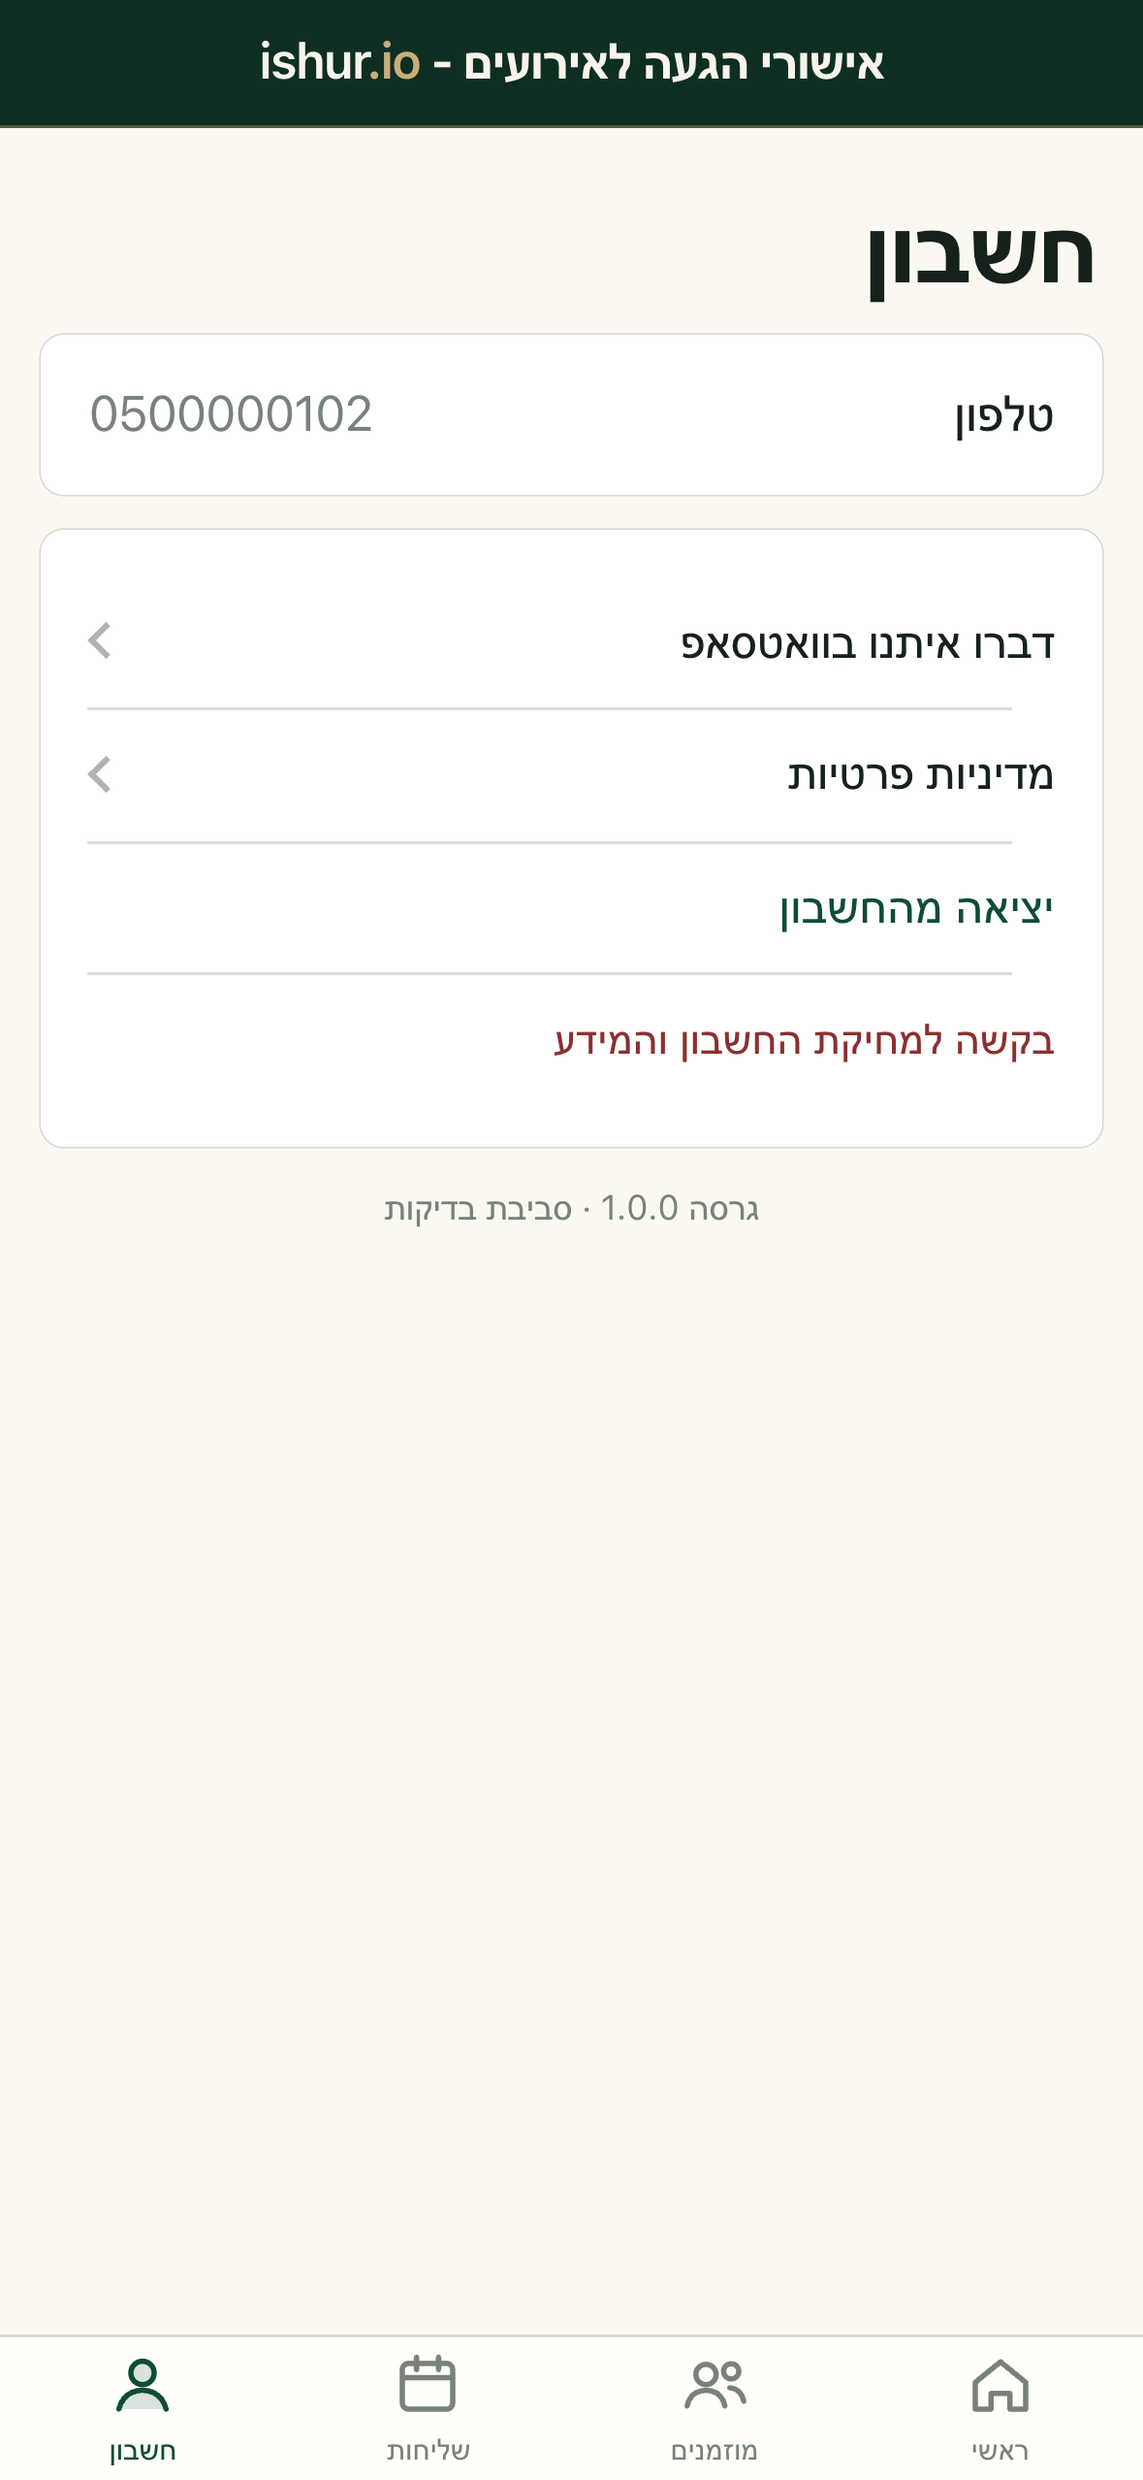
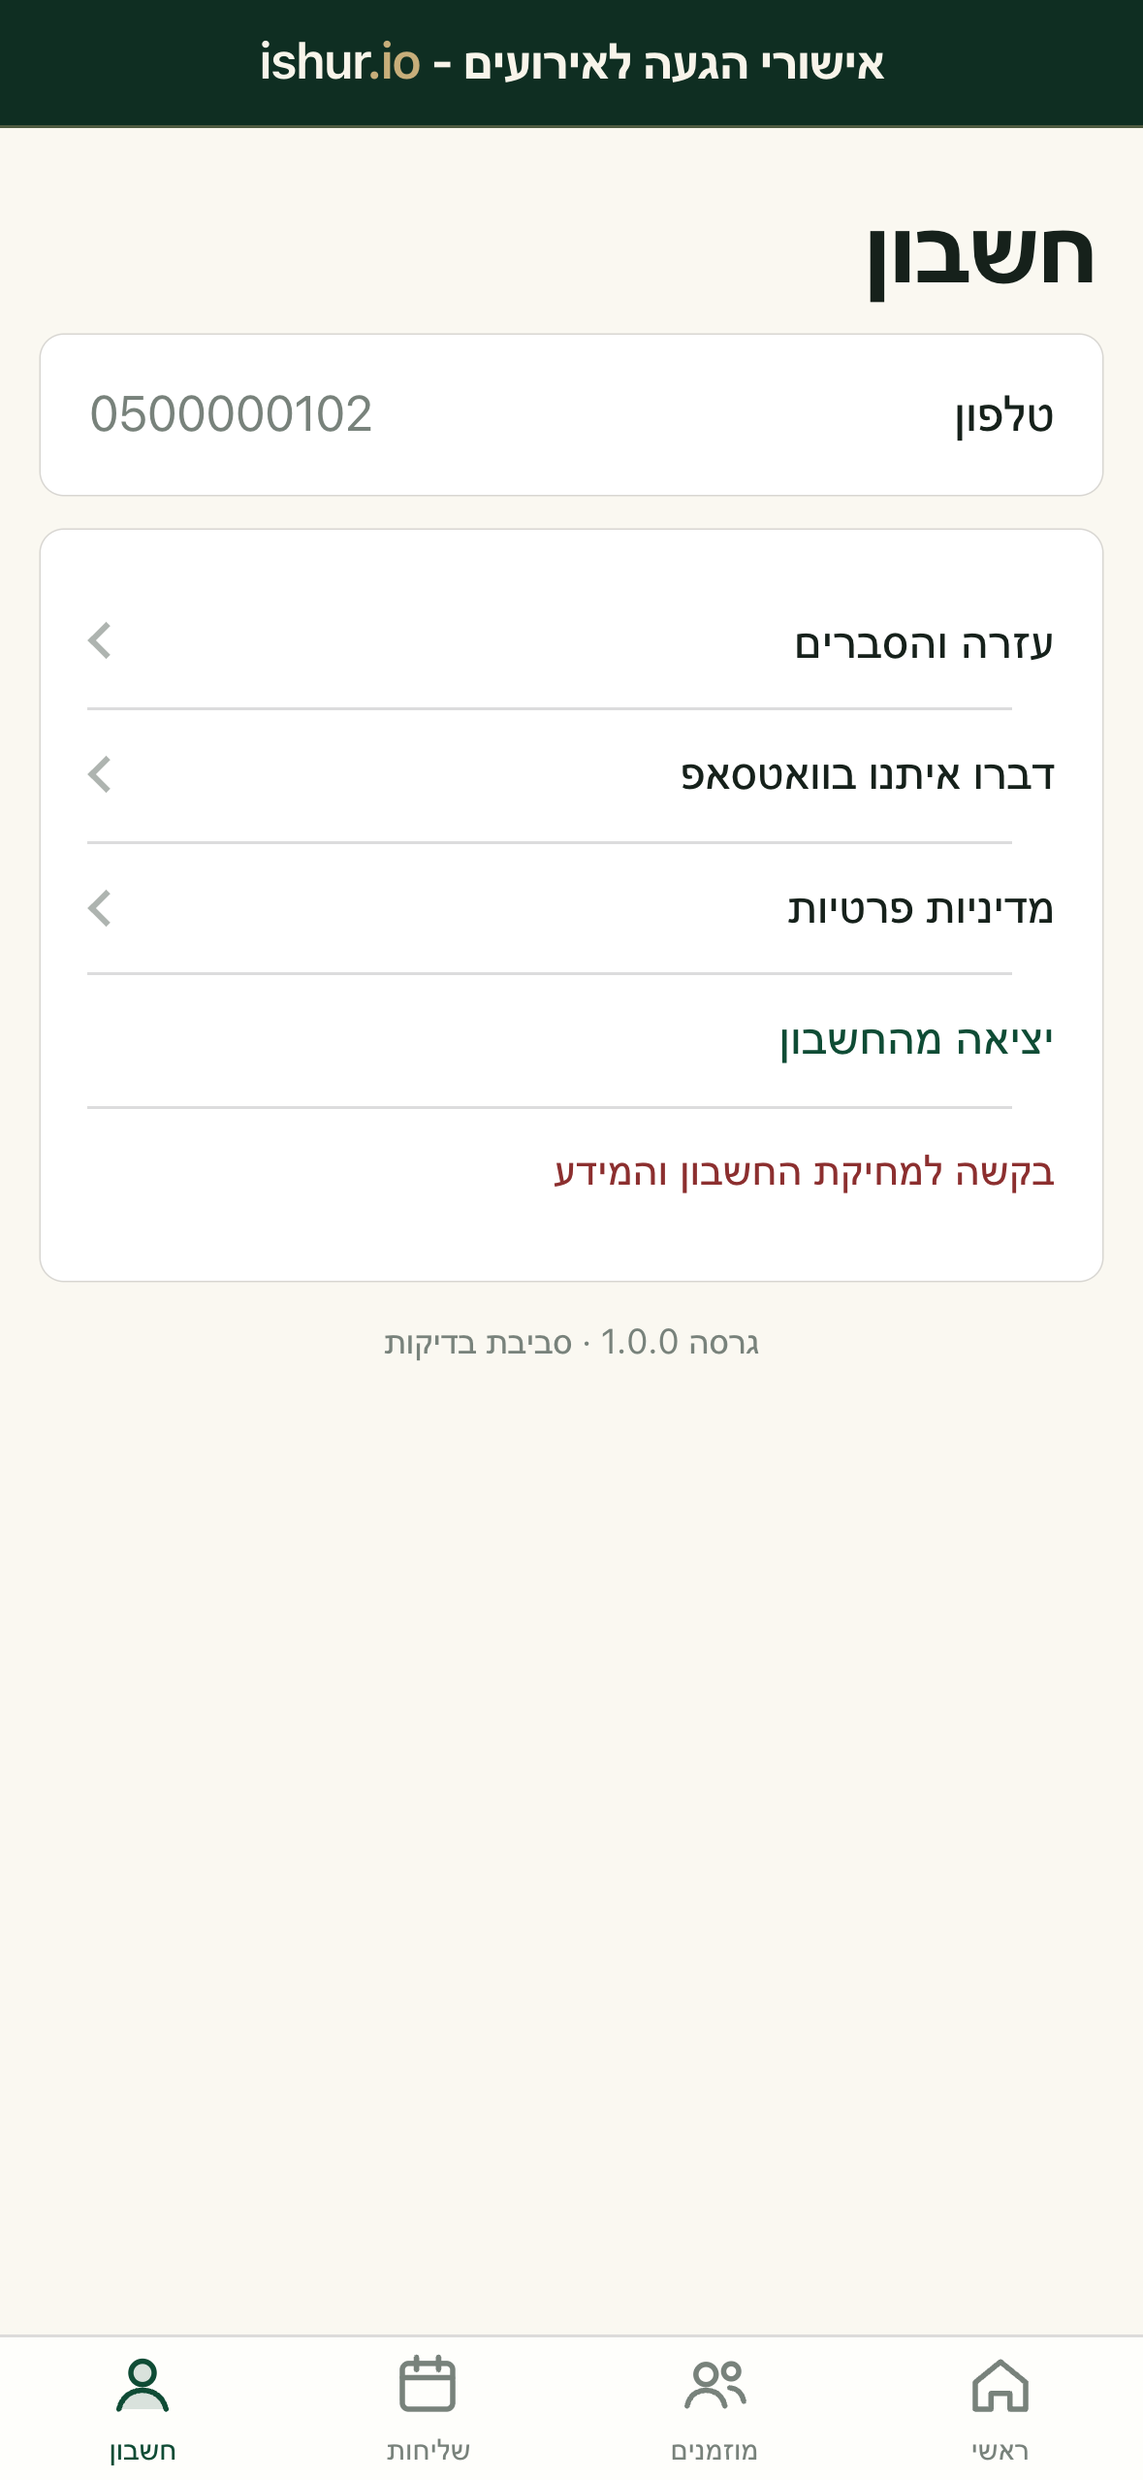
client-app: help centre (R19) with five animated explanations, check P15, 37/37

diff --git a/app/www/help.js b/app/www/help.js
@@ -1,0 +1,73 @@
+/* ishur client app · help centre (spec R19). For clients who are not technical: one idea per screen, large text,
+   a small moving picture that shows where to touch, "הבא" to go on, "להראות שוב" to replay, and WhatsApp at the end.
+   To add or change an explanation, edit TOPICS below: each step is { text, scene }. Scenes are drawn by SCENES. */
+(function () {
+  'use strict';
+  var $ = function (id) { return document.getElementById(id); };
+  var App = window.IshurApp || {}, ENV = window.ISHUR_ENV || {};
+
+  var TOPICS = [
+    { title: 'מה המספרים אומרים', steps: [
+      { text: 'המספר הגדול למעלה הוא כמה אנשים מגיעים לאירוע.', scene: ['count', '86', 'מגיעים'] },
+      { text: 'מתחתיו רואים כמה אישרו, כמה לא בטוחים, כמה עוד לא ענו וכמה לא מגיעים.', scene: ['tiles', 'אישרו', 'לא בטוחים', 'לא ענו', 'לא מגיעים'] },
+      { text: 'נגיעה במספר פותחת את רשימת האנשים שמאחוריו.', scene: ['tap', 'לא ענו', '12'] } ] },
+    { title: 'איך מוסיפים מוזמן', steps: [
+      { text: 'בלשונית "ראשי" גוללים למטה עד "הוספת מוזמן".', scene: ['scroll', 'הוספת מוזמן'] },
+      { text: 'כותבים את השם ואת מספר הטלפון של המוזמן.', scene: ['type', 'שם', 'טלפון'] },
+      { text: 'נוגעים ב"הוספה". המוזמן נכנס לרשימה ויקבל הזמנה בשליחה הבאה.', scene: ['tap', 'הוספה', ''] } ] },
+    { title: 'איך משנים תאריך שליחה', steps: [
+      { text: 'בלשונית "ראשי" גוללים עד "לוח השליחות".', scene: ['scroll', 'לוח השליחות'] },
+      { text: 'ליד השליחה שרוצים להזיז נוגעים ב"שינוי תאריך".', scene: ['tap', 'שינוי תאריך', ''] },
+      { text: 'בוחרים יום חדש. אפשר לשנות עד השעה 06:00 בבוקר של יום השליחה.', scene: ['calendar'] } ] },
+    { title: 'מה זה "נכשלו" ומה עושים', steps: [
+      { text: '"נכשלו" הם מוזמנים שההזמנה לא הגיעה לטלפון שלהם.', scene: ['row', 'דנה כהן', 'לא נמסר'] },
+      { text: 'ליד כל שם כתובה הסיבה: אין וואטסאפ במספר, או שההודעה לא נמסרה.', scene: ['row', 'יוסי לוי', 'אין וואטסאפ'] },
+      { text: 'בודקים שהמספר נכון. אם הוא נכון, שולחים להם את קישור אישור ההגעה מהטלפון שלכם.', scene: ['share'] } ] },
+    { title: 'איך משתפים קישור אישור הגעה', steps: [
+      { text: 'יש קישור אחד שכל מוזמן יכול לאשר דרכו הגעה, גם מי שלא קיבל הזמנה.', scene: ['share'] },
+      { text: 'נוגעים ב"שיתוף קישור אישור ההגעה" ובוחרים וואטסאפ או כל אפליקציה אחרת.', scene: ['tap', 'שיתוף קישור', ''] } ] }
+  ];
+
+  var el = function (cls, text) { var d = document.createElement('div'); d.className = cls; if (text != null) d.textContent = text; return d; };
+  var SCENES = {
+    count: function (s, a) { var b = el('sc-big', a[1]); s.appendChild(b); s.appendChild(el('sc-cap', a[2])); },
+    tiles: function (s, a) { var g = el('sc-grid'); a.slice(1).forEach(function (t, i) { var c = el('sc-tile lit', ''); c.style.animationDelay = (i * 0.7) + 's'; c.appendChild(el('sc-n', String([48, 9, 12, 7][i]))); c.appendChild(el('sc-l', t)); g.appendChild(c); }); s.appendChild(g); },
+    tap: function (s, a) { var c = el('sc-tile wide target'); if (a[2]) c.appendChild(el('sc-n', a[2])); c.appendChild(el('sc-l', a[1])); s.appendChild(c); s.appendChild(el('sc-finger')); },
+    scroll: function (s, a) { var w = el('sc-page'); w.appendChild(el('sc-line')); w.appendChild(el('sc-line short')); w.appendChild(el('sc-line')); w.appendChild(el('sc-goal', a[1])); s.appendChild(w); s.appendChild(el('sc-finger swipe')); },
+    type: function (s, a) { a.slice(1).forEach(function (t, i) { var f = el('sc-field'); f.appendChild(el('sc-ph', t)); var ink = el('sc-ink'); ink.style.animationDelay = (i * 1.1) + 's'; f.appendChild(ink); s.appendChild(f); }); },
+    calendar: function (s) { var g = el('sc-cal'); for (var i = 0; i < 14; i++) g.appendChild(el('sc-day' + (i === 9 ? ' pick' : ''), String(i + 14))); s.appendChild(g); },
+    row: function (s, a) { var r = el('sc-row'); r.appendChild(el('sc-name', a[1])); r.appendChild(el('sc-pill', a[2])); s.appendChild(r); },
+    share: function (s) { var c = el('sc-link', 'קישור אישור הגעה'); s.appendChild(c); var w = el('sc-apps'); ['וואטסאפ', 'הודעות', 'העתקה'].forEach(function (t, i) { var b = el('sc-app', t); b.style.animationDelay = (0.4 + i * 0.25) + 's'; w.appendChild(b); }); s.appendChild(w); }
+  };
+
+  var topic = null, step = 0;
+  function draw() {
+    var st = topic.steps[step], last = step === topic.steps.length - 1;
+    $('helpText').textContent = st.text;
+    var sc = $('helpScene'); sc.textContent = ''; sc.className = 'scene sc-' + st.scene[0];
+    (SCENES[st.scene[0]] || function () {})(sc, st.scene);
+    $('helpDots').innerHTML = topic.steps.map(function (_, i) { return '<i' + (i === step ? ' class="on"' : '') + '></i>'; }).join('');
+    $('helpNext').hidden = last; $('helpReplay').hidden = !last; $('helpWa').hidden = !last;
+  }
+  function openTopic(i) {
+    topic = TOPICS[i]; step = 0;
+    $('helpTopics').hidden = true; $('helpPlayer').hidden = false; $('helpBack').hidden = false;
+    $('helpPlayer').setAttribute('data-steps', topic.steps.length); $('helpTitle').textContent = topic.title; draw();
+  }
+  function list() { topic = null; $('helpTopics').hidden = false; $('helpPlayer').hidden = true; $('helpBack').hidden = true; $('helpTitle').textContent = 'עזרה והסברים'; }
+  function open(i) { $('help').hidden = false; if (typeof i === 'number') openTopic(i); else list(); }
+
+  $('helpTopics').innerHTML = TOPICS.map(function (t, i) { return '<button type="button" class="row nav" data-i="' + i + '"><span class="nm">' + t.title + '</span></button>'; }).join('');
+  $('helpTopics').addEventListener('click', function (e) { var b = e.target.closest('button'); if (b) openTopic(Number(b.getAttribute('data-i'))); });
+  $('helpNext').addEventListener('click', function () { if (step < topic.steps.length - 1) { step++; draw(); } });
+  $('helpReplay').addEventListener('click', function () { step = 0; draw(); });
+  $('helpBack').addEventListener('click', list);
+  $('helpClose').addEventListener('click', function () { $('help').hidden = true; });
+  $('helpOpen').addEventListener('click', function () { open(); });
+  $('helpWa').addEventListener('click', function (e) {
+    e.preventDefault();
+    var url = 'https://wa.me/' + ENV.whatsapp + '?text=' + encodeURIComponent('היי, צריך/ה עזרה באפליקציה: ' + (topic ? topic.title : ''));
+    var b = App.plugin && App.plugin('Browser'); if (b) b.open({ url: url }); else window.open(url, '_blank', 'noopener');
+  });
+  window.IshurHelp = { open: open, topics: TOPICS };
+})();

diff --git a/app/www/app.css b/app/www/app.css
@@ -200,3 +200,60 @@ label{font-size:13px;font-weight:400;color:var(--ink3)}
 @media (prefers-reduced-transparency:reduce){.tabs{background:var(--card);-webkit-backdrop-filter:none;backdrop-filter:none}}
 @media (prefers-contrast:more){.card,.list,.kpi{box-shadow:0 0 0 1px var(--ink3)}.tabs{background:var(--card);border-top:1px solid var(--ink3)}}
 @media (prefers-reduced-motion:reduce){.sheetbox,.sheet{animation:none}.switch input::after{transition:none}}
+
+/* ── help centre (R19): full-screen, large text, one idea per screen ───────────────────────────────────────── */
+.links button.nav{color:var(--ink)}
+.links button.nav::after,.row.nav::after{content:"";position:absolute;inset-inline-end:2px;top:50%;width:7px;height:7px;border-left:2px solid var(--ink3);border-bottom:2px solid var(--ink3);transform:translateY(-50%) rotate(45deg);opacity:.6}
+.help{position:fixed;inset:0;z-index:30;background:var(--bg);display:flex;flex-direction:column;overflow-y:auto}
+.helpbar{display:flex;align-items:center;justify-content:space-between;gap:.5rem;min-height:calc(44px + env(safe-area-inset-top));padding:env(safe-area-inset-top) .9rem 0;background:var(--pine);color:#F8F4EA}
+.helpbar h2{font-size:17px;font-weight:600;margin:0;flex:1;text-align:center}
+.helpbar button{color:#F8F4EA;font-size:17px;min-height:44px;min-width:56px}
+.helptopics{margin:1rem .9rem}
+.helptopics .row{width:100%;text-align:start;min-height:56px}
+.helptopics .row .nm{font-size:19px}
+.row.nav::after{inset-inline-end:.9rem}
+.helpplayer{flex:1;display:flex;flex-direction:column;max-width:560px;width:100%;margin:0 auto;padding:1rem .9rem calc(1.2rem + env(safe-area-inset-bottom))}
+.helpdots{display:flex;gap:6px;justify-content:center;margin-bottom:.9rem}
+.helpdots i{width:22px;height:4px;border-radius:2px;background:var(--fill)}
+.helpdots i.on{background:var(--gold)}
+.scene{position:relative;height:210px;border-radius:var(--r);background:var(--card);box-shadow:0 0 0 .5px var(--hair);display:flex;flex-direction:column;align-items:center;justify-content:center;gap:.6rem;overflow:hidden;padding:1rem}
+.helptext{font-size:22px;line-height:1.4;font-weight:500;margin:1.1rem .2rem 1.2rem;min-height:4.2em}
+.helpplayer .btn{margin-top:.6rem;min-height:56px;font-size:19px;text-align:center;line-height:56px;text-decoration:none}
+.sc-big{font-size:72px;font-weight:700;color:var(--yes);line-height:1}
+.sc-cap{font-size:18px;color:var(--ink2)}
+.sc-grid{display:grid;grid-template-columns:1fr 1fr;gap:.5rem;width:100%}
+.sc-tile{background:var(--bg);border-radius:var(--r);padding:.55rem;text-align:center;box-shadow:0 0 0 .5px var(--hair)}
+.sc-tile.wide{min-width:60%;padding:.9rem}
+.sc-n{font-size:24px;font-weight:600}.sc-l{font-size:15px;color:var(--ink2)}
+.sc-finger{position:absolute;width:44px;height:44px;border-radius:50%;background:var(--gold);opacity:.0;bottom:18px;inset-inline-start:22%}
+.sc-page{width:70%;display:flex;flex-direction:column;gap:.5rem}
+.sc-line{height:12px;border-radius:6px;background:var(--fill)}.sc-line.short{width:60%}
+.sc-goal{font-size:17px;font-weight:600;color:var(--green);padding:.5rem;border-radius:var(--r);box-shadow:0 0 0 1.5px var(--green);text-align:center}
+.sc-field{position:relative;width:80%;height:46px;border-radius:var(--r);background:var(--fill);display:flex;align-items:center;padding:0 .8rem}
+.sc-ph{font-size:16px;color:var(--ink3)}
+.sc-ink{position:absolute;inset-inline-start:4.2rem;height:10px;border-radius:5px;background:var(--ink);width:45%;transform-origin:right center}
+.sc-cal{display:grid;grid-template-columns:repeat(7,1fr);gap:6px;width:90%}
+.sc-day{aspect-ratio:1;display:flex;align-items:center;justify-content:center;font-size:15px;border-radius:var(--r);background:var(--bg)}
+.sc-day.pick{background:var(--green);color:#fff;font-weight:600}
+.sc-row{display:flex;align-items:center;justify-content:space-between;width:92%;padding:.8rem;border-radius:var(--r);background:var(--bg);box-shadow:0 0 0 .5px var(--hair)}
+.sc-name{font-size:19px}.sc-pill{font-size:15px;font-weight:600;color:var(--no);background:var(--no-bg);padding:.25rem .6rem;border-radius:6px}
+.sc-link{font-size:17px;font-weight:600;color:var(--green);padding:.7rem 1rem;border-radius:var(--r);background:var(--fill)}
+.sc-apps{display:flex;gap:.5rem}
+.sc-app{font-size:14px;padding:.5rem .7rem;border-radius:var(--r);background:var(--bg);box-shadow:0 0 0 .5px var(--hair)}
+@media (prefers-reduced-motion:no-preference){
+  .sc-big{animation:hpop .6s cubic-bezier(.2,.9,.25,1) both}
+  .sc-tile.lit{animation:hlit 2.8s ease-in-out infinite}
+  .sc-tile.target,.sc-goal,.sc-day.pick,.sc-pill,.sc-link{animation:hring 1.6s ease-in-out infinite}
+  .sc-finger{animation:htap 1.6s ease-in-out infinite}
+  .sc-finger.swipe{animation:hswipe 1.8s ease-in-out infinite}
+  .sc-ink{animation:hink 2.4s ease-out infinite both}
+  .sc-app{animation:hpop .5s cubic-bezier(.2,.9,.25,1) both}
+  .sc-page{animation:hscroll 1.8s ease-in-out infinite}
+  @keyframes hpop{from{opacity:0;transform:scale(.8)}}
+  @keyframes hlit{0%,20%,100%{box-shadow:0 0 0 .5px var(--hair)}8%{box-shadow:0 0 0 2.5px var(--gold)}}
+  @keyframes hring{0%,100%{box-shadow:0 0 0 1.5px var(--gold)}50%{box-shadow:0 0 0 6px rgba(168,133,60,.25)}}
+  @keyframes htap{0%{opacity:0;transform:translate(0,30px)}35%{opacity:.75;transform:translate(0,-52px)}50%{opacity:.75;transform:translate(0,-52px) scale(.8)}65%,100%{opacity:0;transform:translate(0,-52px)}}
+  @keyframes hswipe{0%{opacity:0;transform:translate(0,0)}20%{opacity:.7}70%{opacity:.7;transform:translate(0,-110px)}100%{opacity:0;transform:translate(0,-110px)}}
+  @keyframes hink{0%{transform:scaleX(0)}45%,100%{transform:scaleX(1)}}
+  @keyframes hscroll{0%,20%{transform:translateY(26px)}70%,100%{transform:translateY(-10px)}}
+}

diff --git a/app/www/index.html b/app/www/index.html
@@ -110,6 +110,7 @@
       <p class="sub">בלי התראות בין 21:00 ל-09:00.</p>
     </div>
     <div class="card links">
+      <button id="helpOpen" type="button" class="nav">עזרה והסברים</button>
       <a id="support" href="#">דברו איתנו בוואטסאפ</a>
       <a id="privacy" href="#">מדיניות פרטיות</a>
       <button id="signout" type="button">יציאה מהחשבון</button>
@@ -126,6 +127,24 @@
   </nav>
 </div>
 
+<!-- help centre: short animated explanations, one idea per screen -->
+<div id="help" class="help" hidden role="dialog" aria-modal="true" aria-labelledby="helpTitle">
+  <header class="helpbar">
+    <button id="helpBack" type="button" hidden>חזרה</button>
+    <h2 id="helpTitle">עזרה והסברים</h2>
+    <button id="helpClose" type="button">סגירה</button>
+  </header>
+  <div id="helpTopics" class="list helptopics"></div>
+  <div id="helpPlayer" class="helpplayer" hidden>
+    <div class="helpdots" id="helpDots" aria-hidden="true"></div>
+    <div id="helpScene" class="scene" aria-hidden="true"></div>
+    <p id="helpText" class="helptext" aria-live="polite"></p>
+    <button id="helpNext" class="btn" type="button">הבא</button>
+    <button id="helpReplay" class="btn ghost" type="button" hidden>להראות שוב</button>
+    <a id="helpWa" class="btn ghost" href="#" hidden>עדיין לא ברור? דברו איתנו בוואטסאפ</a>
+  </div>
+</div>
+
 <!-- delete-account sheet -->
 <div id="sheet" class="sheet" hidden>
   <div class="sheetbox" role="dialog" aria-modal="true" aria-labelledby="sheetT">
@@ -140,5 +159,6 @@
 
 <script src="env.js"></script>
 <script src="app.js"></script>
+<script src="help.js"></script>
 </body>
 </html>

diff --git a/app/RUNBOOK.md b/app/RUNBOOK.md
@@ -16,7 +16,7 @@ cd app
 STAGING_SECRETS=/path/to/worker/.staging.secrets PLAYWRIGHT_PATH=/path/to/playwright/index.mjs npm run check
 DEMO=2 ... npm run check        # the demo client with mixed answers
 ```
-Exit 0 and "34/34 passed" is the pass. The script first clears the staging sign-in counters (6 tries an hour per
+Exit 0 and "37/37 passed" is the pass. The script first clears the staging sign-in counters (6 tries an hour per
 phone); that reset exists on staging only. Screenshots land in `test/shots/`.
 
 ## Build for a store
